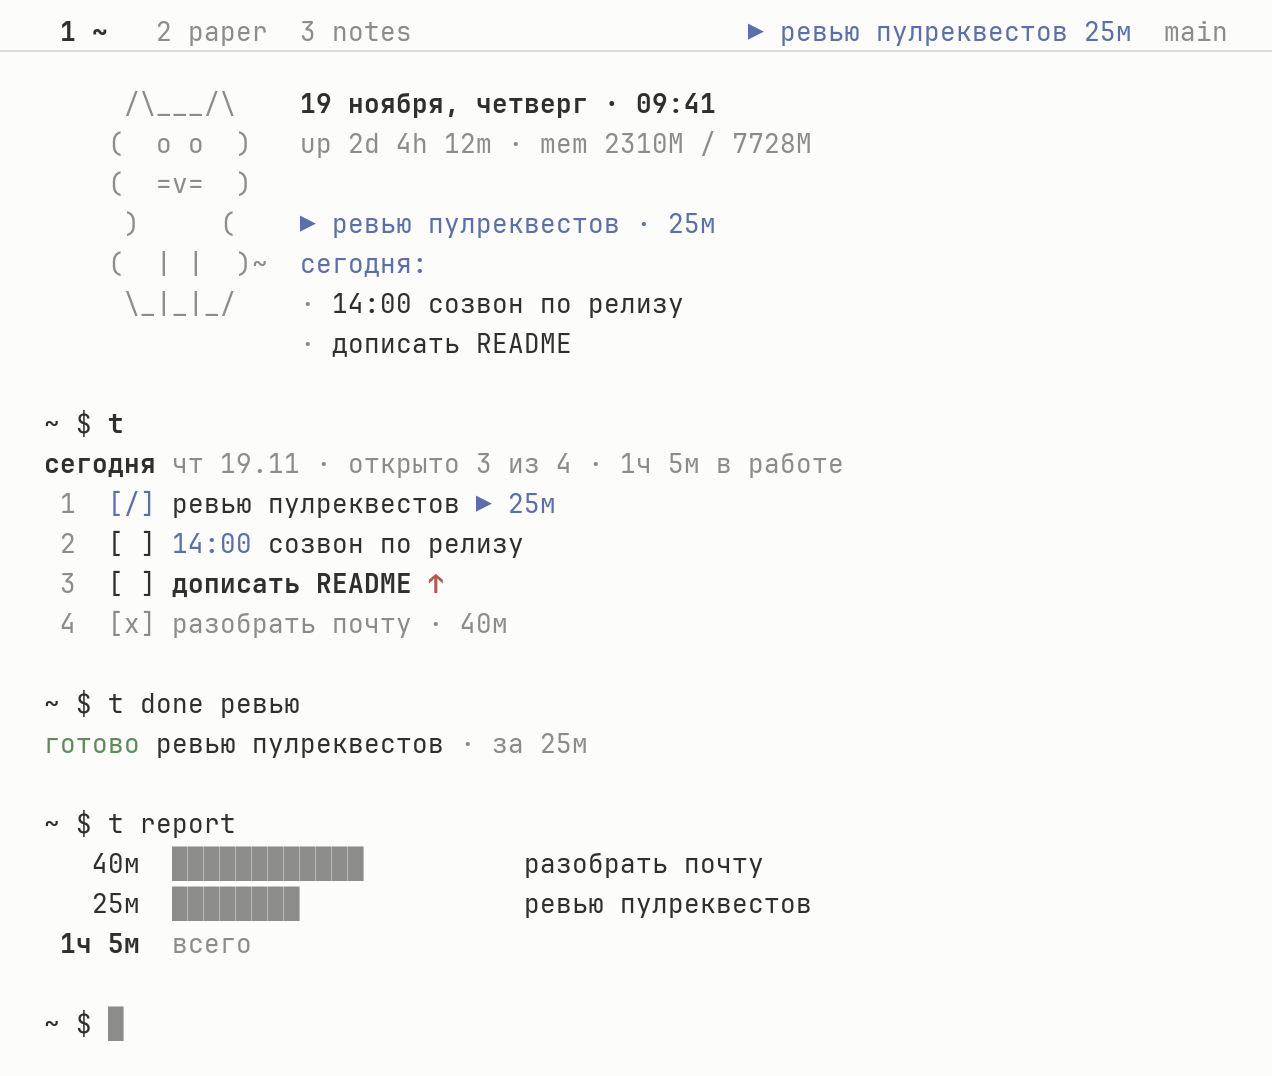
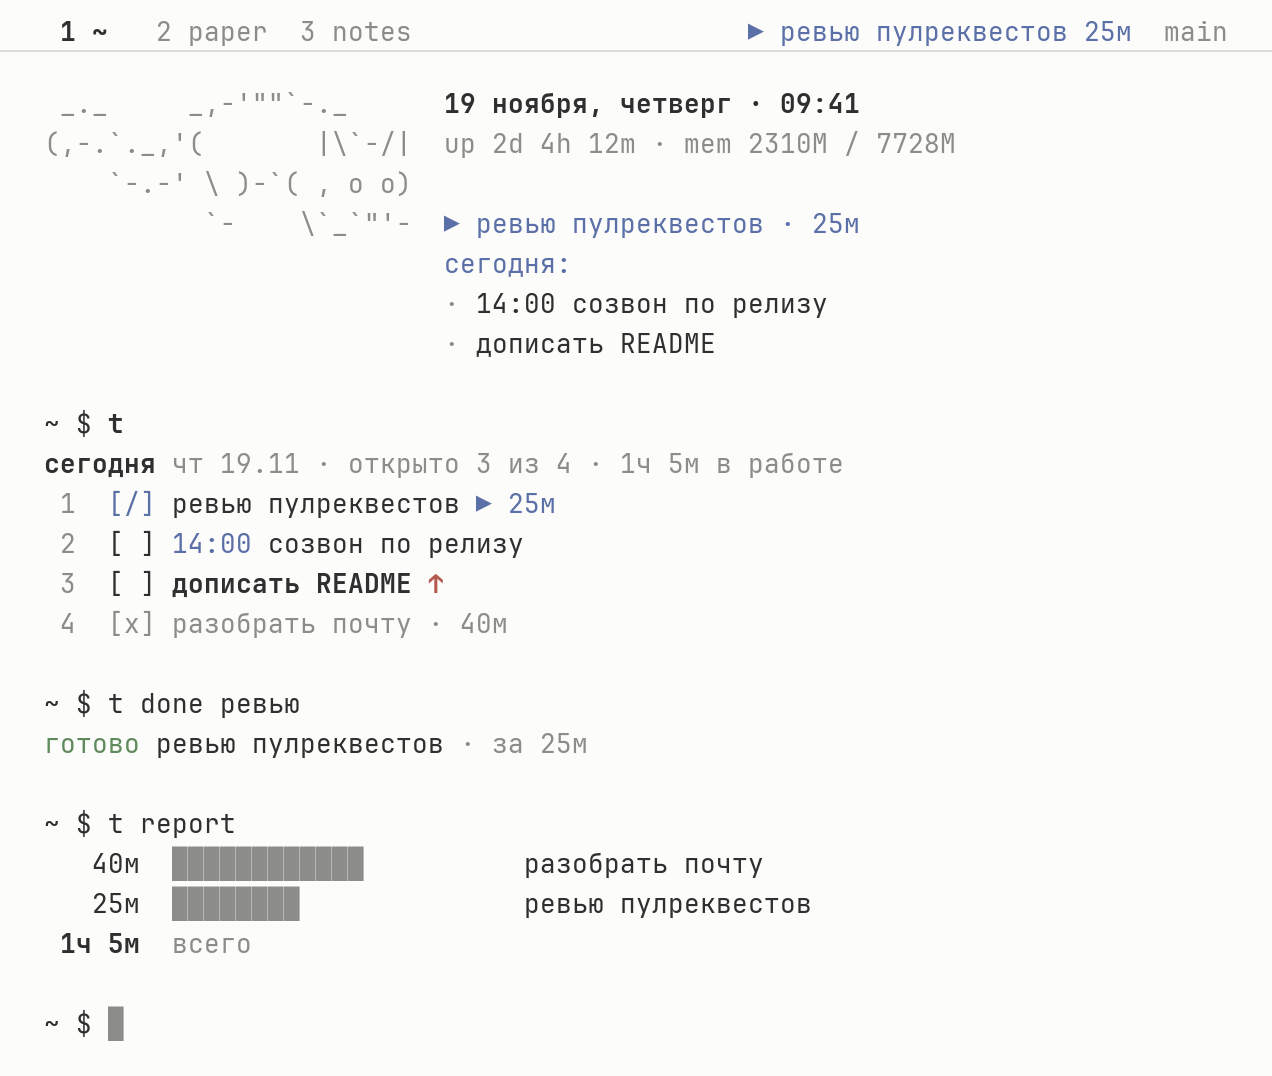
readme: cats from asciiart.eu instead of hand-drawn ones
Header cat, puma and long cat taken from ASCII Art Archive (artists unknown),
credited in art/CREDITS.md and the README footer. The header cat is also the
default greeting art again; terminal picture re-rendered.

diff --git a/art/CREDITS.md b/art/CREDITS.md
@@ -1,0 +1,10 @@
+# art credits
+
+| file | source | artist |
+|---|---|---|
+| `cat.txt` | [asciiart.eu/art/8e03bfe9f5b3c218](https://www.asciiart.eu/art/8e03bfe9f5b3c218) | unknown |
+| `puma.txt` | [asciiart.eu · cats](https://www.asciiart.eu/animals/cats) | unknown |
+| `cat-long.txt` | [asciiart.eu · cats](https://www.asciiart.eu/animals/cats) | unknown |
+| `terminal.txt` | this repo | — |
+
+ASCII Art Archive asks to keep artists' names / initials when they are present; these pieces carry none.
